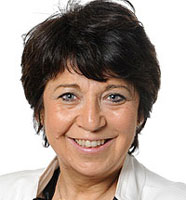
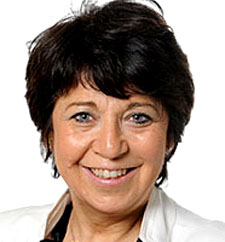
derneires modifs git st

diff --git a/prediction-web/src/main/webapp/resources/styles/default.css b/prediction-web/src/main/webapp/resources/styles/default.css
@@ -109,6 +109,7 @@ clear:both;
 	width:240px;
 }
 #candidatImage {
+	width: 186px;
 	z-index: 999999;
 }
 #candidatImage p{
@@ -204,7 +205,7 @@ select{
 	margin-bottom:5px;
 }
 #containerChartType {
-	z-index: 999;
+	z-index: 99999;
 	top: 520px;
 	left: 50px;
 	color: #383838;
@@ -421,11 +422,11 @@ a.blueButton, a.redButton{
 	cursor: pointer ;
 	text-align: center;
 	background: url(../images/sprite.png) no-repeat;
-	width: 190px;
-	background-position: 20px -568px;
+	width: 208px;
+	background-position: 41px -568px;
 	position: absolute;
-	height: 170px;
-	bottom: 38px;
+	height: 178px;
+	bottom: 13px;
 	right: 0px;
 }
 #winnerDetail {
@@ -459,9 +460,6 @@ tips structure :
 </div>
 */
 
-#mapTip {
-	position: absolute ;
-}
 .tooltips #mapTip{
 	cursor: default;	
 }
@@ -486,7 +484,11 @@ tips structure :
 	background: -webkit-gradient(linear, left top, left bottom, from(#5d5d5d), to(black));
 	background: -moz-linear-gradient(top, #5d5d5d, black);
 }
-
+#mapTip {
+	opacity: 0;	
+	filter:alpha(opacity=0); 
+	position: absolute ;
+}
 
 
 /* CCM PAGE */

diff --git a/prediction-mashup/src/main/java/com/avricot/prediction/Mashup.java b/prediction-mashup/src/main/java/com/avricot/prediction/Mashup.java
@@ -14,7 +14,7 @@ import com.avricot.prediction.repository.candidat.CandidatRespository;
 import com.avricot.prediction.repository.report.ReportRespository;
 
 /**
- * Classe orchestrant la génération des mashups de données 
+ * Classe orchestrant la génération des mashups de données
  */
 
 @Service
@@ -66,7 +66,7 @@ public class Mashup {
 	}
 
 	/**
-	 * Mashup de toutes les données que nous avons en base et mise à jour de 
+	 * Mashup de toutes les données que nous avons en base et mise à jour de
 	 * tous les rapports
 	 */
 	public void mashupEverything() {
@@ -81,34 +81,34 @@ public class Mashup {
 		LOG.info("Done.");
 	}
 
-	
 	/**
-	 * Permet de récupérer les valeurs maximales pour les tweets, les rss et les insight
+	 * Permet de récupérer les valeurs maximales pour les tweets, les rss et les
+	 * insight
 	 */
 	public void fillMaxValues() {
 		maxInsight = 0;
 		maxRss = 0;
 		maxTweet = 0;
-		
+
 		List<Candidat> candidats = candidatRespository.findAll();
 		List<Report> reports = reportRepository.findAll();
-		
+
 		for (Report report : reports) {
 			for (Candidat candidat : candidats) {
-				if(report.getCandidats().get(candidat.getCandidatName()) == null)
+				if (report.getCandidats().get(candidat.getCandidatName()) == null)
 					report.getCandidats().put(candidat.getCandidatName(), new CandidatReport());
-		
+
 				long tweets = report.getCandidats().get(candidat.getCandidatName()).getTweetNumber();
 				float insight = report.getCandidats().get(candidat.getCandidatName()).getInsight();
 				long rss = report.getCandidats().get(candidat.getCandidatName()).getRssCountResult();
-				if(tweets > maxTweet)
+				if (tweets > maxTweet)
 					maxTweet = tweets;
-				if(insight > maxInsight)
+				if (insight > maxInsight)
 					maxInsight = insight;
-				if(rss > maxRss)
+				if (rss > maxRss)
 					maxRss = rss;
 			}
-			
+
 		}
 	}
 }

diff --git a/prediction-web/src/main/java/com/avricot/prediction/web/controller/home/HomeController.java b/prediction-web/src/main/java/com/avricot/prediction/web/controller/home/HomeController.java
@@ -83,6 +83,9 @@ public class HomeController {
 	@RequestMapping(value = "geoReport", method = RequestMethod.GET)
 	public Map<Region, Integer> geoReportForCandidat(@RequestParam long timestamp, @RequestParam CandidatName candidatName) {
 		GeoReport report = geoReportRepository.findByCandidatNameAndTimestamp(candidatName, timestamp);
+		if (report == null) {
+			return null;
+		}
 		return report.getReport();
 	}
 
@@ -128,7 +131,7 @@ public class HomeController {
 		List<Candidat> candidats = candidatRepository.findAll();
 		float max = 0;
 		for (Candidat candidat : candidats) {
-			if(candidat.getReport().getTendance() > max)
+			if (candidat.getReport().getTendance() > max)
 				max = candidat.getReport().getTendance();
 		}
 		model.addAttribute("maxTendance", max);
